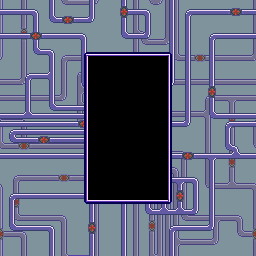
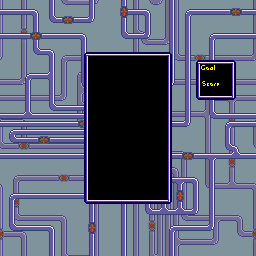
added score panel

Changed region(s): [[0.75, 0.2188, 0.9375, 0.4062]]

diff --git a/source/scenes/board.cpp b/source/scenes/board.cpp
@@ -13,7 +13,8 @@ void Board::init()
 	init_dialog_bg();
 	init_dialog_fg();		
 	
-	show_dialog("Cappuccino", "Hi there!");	
+	show_dialog("Cappuccino", "Hi there! My name is Oak and welcome to the world of Pokemon. How to write the word beach?");	
+	//show_dialog("Cappuccino", w);
 	//show_dialog(nullptr, nullptr);
 	
 	bgSetAlpha(1, 6, 3, 8);
@@ -24,34 +25,41 @@ void Board::init()
 }
 
 void Board::frame()
-{
-	//greenSwapSwitch();	
-	clear();
-	draw_mesh(board_mesh);
-	for(int i=0;i<meshes.size();i++)
-		draw_mesh(meshes[i]);
-	draw_mesh(*user_controllable_mesh);
-	
-	if(user_controllable_mesh)
-	{				
-		user_controllable_mesh->move(0,1);
-		if(!ucm_in_bounds())
-		{			
-			user_controllable_mesh->move(0,-1);
-			board_mesh+=*user_controllable_mesh;
-			//if(board_mesh.coord_at(0,0)!=0)
-				//FATAL_ERROR("Something happened");
-			delete user_controllable_mesh;
-			user_controllable_mesh = nullptr;
-		}
+{	
+	process_dialog();
+	if(frame_cnt==0) 
+	{	
+		//greenSwapSwitch();
+		clear();
+		draw_mesh(board_mesh);
+		for(int i=0;i<meshes.size();i++)
+			draw_mesh(meshes[i]);
+		draw_mesh(*user_controllable_mesh);
 		
+		if(user_controllable_mesh)
+		{				
+			user_controllable_mesh->move(0,1);
+			if(!ucm_in_bounds())
+			{			
+				user_controllable_mesh->move(0,-1);
+				board_mesh+=*user_controllable_mesh;
+				//if(board_mesh.coord_at(0,0)!=0)
+					//FATAL_ERROR("Something happened");
+				delete user_controllable_mesh;
+				user_controllable_mesh = nullptr;
+			}
 			
-		if(!user_controllable_mesh)
-		{
-			spawn_mesh(rand()%5, rand()%8, rand()%4);
-		}
-	}	
-	for(int k=9;k--;) VBlankIntrWait();
+				
+			if(!user_controllable_mesh)
+			{
+				spawn_mesh(rand()%5, rand()%8, rand()%4);
+			}
+		}	
+	}
+	frame_cnt++;
+	if(frame_cnt==9) {
+		frame_cnt=0;
+	}
 }
 
 void Board::on_key_down(int keys)

diff --git a/source/scenes/board_dialog.cpp b/source/scenes/board_dialog.cpp
@@ -6,10 +6,40 @@ using namespace Astralbrew::Video;
 
 void Board::show_dialog(const char* actor_name, const char* message)
 {	
+	bgShow(0);
+	bgShow(1);	
+	
 	set_dialog_character(CatsPics[actor_name].tiles, CatsPics[actor_name].palette);
 	
 	vwf_title.put_text(actor_name, Pal4bit, SolidColorBrush(0xE));
-	vwf_body.put_text(message, Pal4bit, SolidColorBrush(0xF));
+	
+	dialog_stream = message;
+}
+
+void Board::hide_dialog()
+{
+	bgHide(0);
+	bgHide(1);
+}
+
+void Board::process_dialog()
+{
+	if(dialog_stream) {
+		vwf_body.clear(Pal4bit);
+		int count = vwf_body.put_text(dialog_stream, Pal4bit, SolidColorBrush(0xF));		
+		dialog_stream+=count;		
+		
+		if(count==0) 
+		{
+			dialog_stream=nullptr;		
+			hide_dialog();
+		}
+		else
+		{
+			wait_for_key_pressed(KEY_A);
+		}
+	}	
+	
 }
 
 void Board::set_dialog_character(const void* tiles, const void* palette)

diff --git a/include/scenes/board.hpp b/include/scenes/board.hpp
@@ -47,6 +47,15 @@ private:
 	void init_dialog_fg();
 	
 	void show_dialog(const char* actor_name, const char* message);
+	void process_dialog();
+	void hide_dialog();
+	
+	int frame_cnt=0;
+		
+	const char* dialog_stream = nullptr;
+	
+private:
+	
 	
 public:
 	virtual void init() override;	
